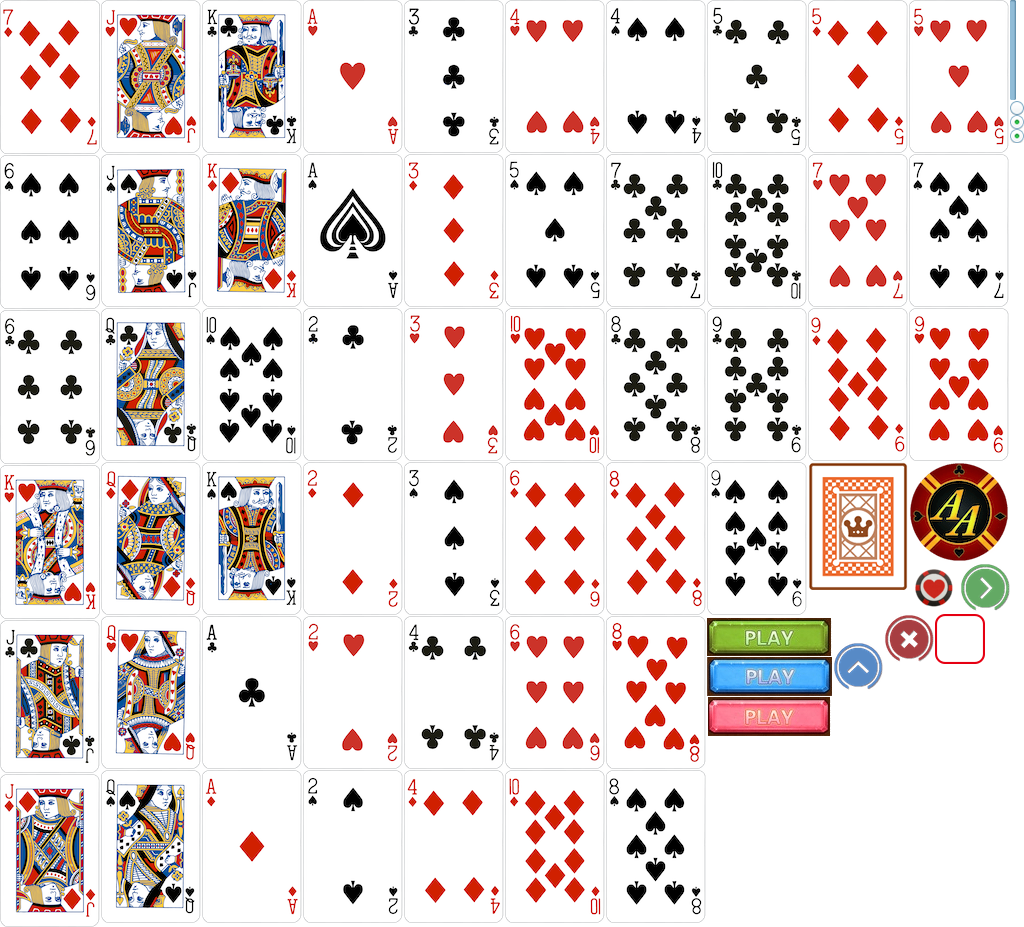
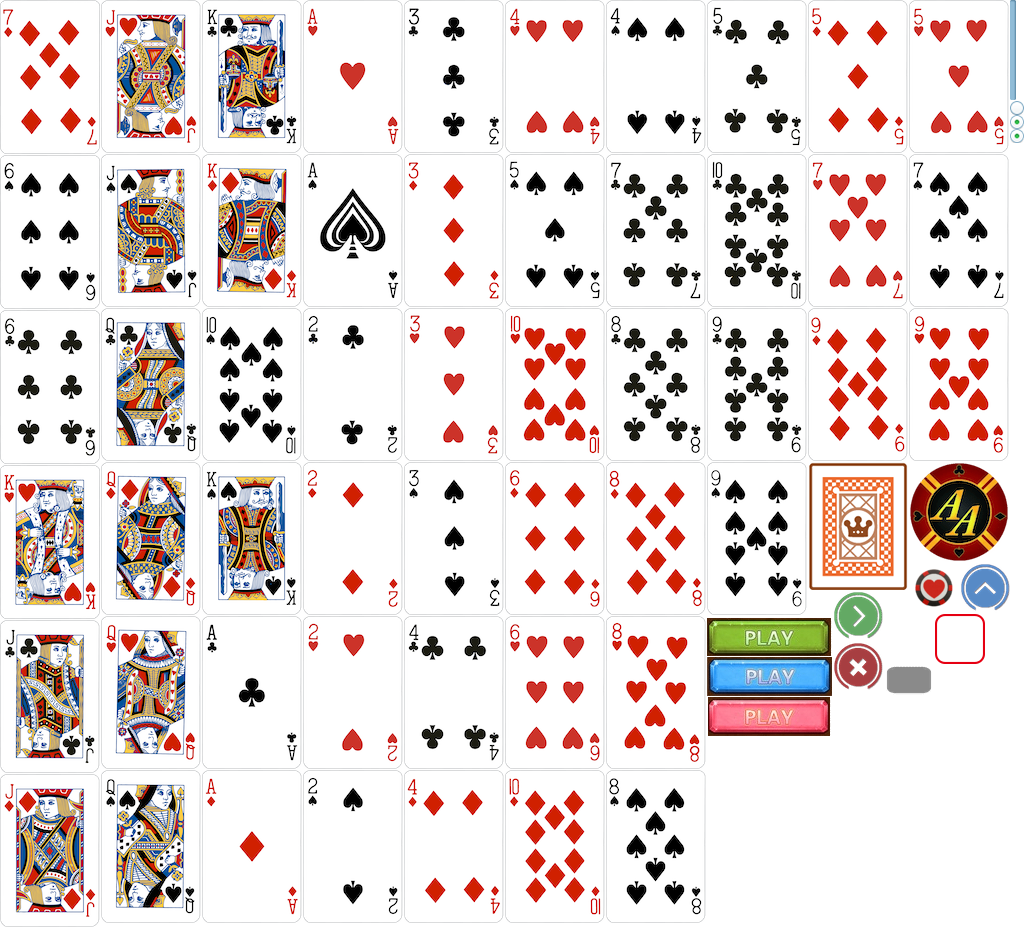
增加定制投注

Changed region(s): [[0.8125, 0.6343, 0.9062, 0.7551], [0.9375, 0.6041, 1.0, 0.6645]]

diff --git a/src/sprite/Control.js b/src/sprite/Control.js
@@ -9,6 +9,9 @@ export default class Control {
         this.imgRise = inparam.imgRise
         this.imgFollow = inparam.imgFollow
         this.vsliderPoint = inparam.vsliderPoint
+        this.imgFixrise0 = inparam.imgFixrise0
+        this.imgFixrise1 = inparam.imgFixrise1
+        this.imgFixrise2 = inparam.imgFixrise2        
         this.init()
     }
     init() {
@@ -17,10 +20,18 @@ export default class Control {
         this.imgFollow.visible = false                          // 跟注按钮
         this.vsliderPoint.visible = false                       // 点数推杆
         this.vsliderPoint.showLabel = false                     // 点数推杆不显示标签
+        this.imgFixrise0.visible = false                        // 定制加注按钮0
+        this.imgFixrise1.visible = false                        // 定制加注按钮1
+        this.imgFixrise2.visible = false                        // 定制加注按钮2
+        
         // 控制台事件
         this.imgRise.on(Laya.Event.CLICK, this, this.onRiseClick)
         this.vsliderPoint.changeHandler = new Laya.Handler(this, this.onVsliderChange)
         this.vsliderPoint.on(Laya.Event.MOUSE_UP, this, this.onVsliderUp)
+        // 定制加注事件
+        this.imgFixrise0.on(Laya.Event.CLICK, this, this.onRise0Click)
+        this.imgFixrise1.on(Laya.Event.CLICK, this, this.onRise1Click)
+        this.imgFixrise2.on(Laya.Event.CLICK, this, this.onRise2Click)
     }
     // 发言
     speak(selfSeat) {
@@ -28,6 +39,9 @@ export default class Control {
         this.imgAbandon.visible = true                                  // 弃牌按钮显示
         this.imgRise.visible = true                                     // 加注按钮显示
         this.imgFollow.visible = true                                   // 跟注按钮显示
+        this.imgFixrise0.visible = true                                 // 定制加注按钮0
+        this.imgFixrise1.visible = true                                 // 定制加注按钮1
+        this.imgFixrise2.visible = true                                 // 定制加注按钮2
         this.vsliderPoint.max = selfSeat.seatPoint                      // 设置加注推杆的最大值
         selfSeat.speak()
     }
@@ -38,6 +52,9 @@ export default class Control {
         this.imgRise.visible = false                                    // 加注按钮
         this.imgFollow.visible = false                                  // 跟注按钮
         this.vsliderPoint.visible = false                               // 分数推杆
+        this.imgFixrise0.visible = false                                // 定制加注按钮0
+        this.imgFixrise1.visible = false                                // 定制加注按钮1
+        this.imgFixrise2.visible = false                                // 定制加注按钮2
     }
 
     // 响应自由加注
@@ -56,5 +73,18 @@ export default class Control {
         if (this.betPoint > 0) {
             WebSocket.send({ method: 'BET', user: WebSocket.globalData.user, betPoint: this.betPoint })
         }
+    }
+
+    // 定制加注0
+    onRise0Click() {
+        WebSocket.send({ method: 'BET', user: WebSocket.globalData.user, betPoint: 4 })
+    }
+    // 定制加注1
+    onRise1Click() {
+        WebSocket.send({ method: 'BET', user: WebSocket.globalData.user, betPoint: 8 })
+    }
+    // 定制加注2
+    onRise2Click() {
+        WebSocket.send({ method: 'BET', user: WebSocket.globalData.user, betPoint: 16 })
     }
 }

diff --git a/src/view/GameView.js b/src/view/GameView.js
@@ -39,6 +39,10 @@ export default class GameView extends Laya.Scene {
         const imgRise = this.imgRise                            // 加注按钮
         const imgFollow = this.imgFollow                        // 跟注按钮
         const vsliderPoint = this.vsliderPoint                  // 点数推杆
+        const imgFixrise0 = this.imgFixrise0                    // 定制加注按钮0
+        const imgFixrise1 = this.imgFixrise1                    // 定制加注按钮1
+        const imgFixrise2 = this.imgFixrise2                    // 定制加注按钮2
+
         // 创建发牌器
         if (this.round.dealer) {
             this.round.dealer.reset()
@@ -56,7 +60,7 @@ export default class GameView extends Laya.Scene {
             this.round.seatMap[imgSeat.name] = new Seat(Object.assign(this.round.seatMap[imgSeat.name], { imgSeat, textSeatPoint, box, maskSeat }))
         }
         // 创建控制台
-        this.control = new Control({ imgAbandon, imgRise, imgFollow, vsliderPoint })
+        this.control = new Control({ imgAbandon, imgRise, imgFollow, vsliderPoint, imgFixrise0, imgFixrise1, imgFixrise2 })
         // 创建盲注，最后全局状态持久化
         this.round.blind = new Blind({ imgChipBig: this.imgChipBig, imgChipSmall: this.imgChipSmall, textChipBig: this.textChipBig, textChipSmall: this.textChipSmall, seatMap: this.round.seatMap })
     }

diff --git a/src/sprite/Start.js b/src/sprite/Start.js
@@ -7,7 +7,8 @@ export default class Start extends Laya.Script {
     onClick() {
         let userId = Math.floor(Math.random() * 1000000)
         let point = 200
-        let headurl = 'person.jpg'
+        let ram = userId > 50000 ? 1 : 2
+        let headurl = `person${ram}.jpg`
         WebSocket.send({ method: 'ROUND_BEGIN', user: { userId, point, headurl } })
     }
 
